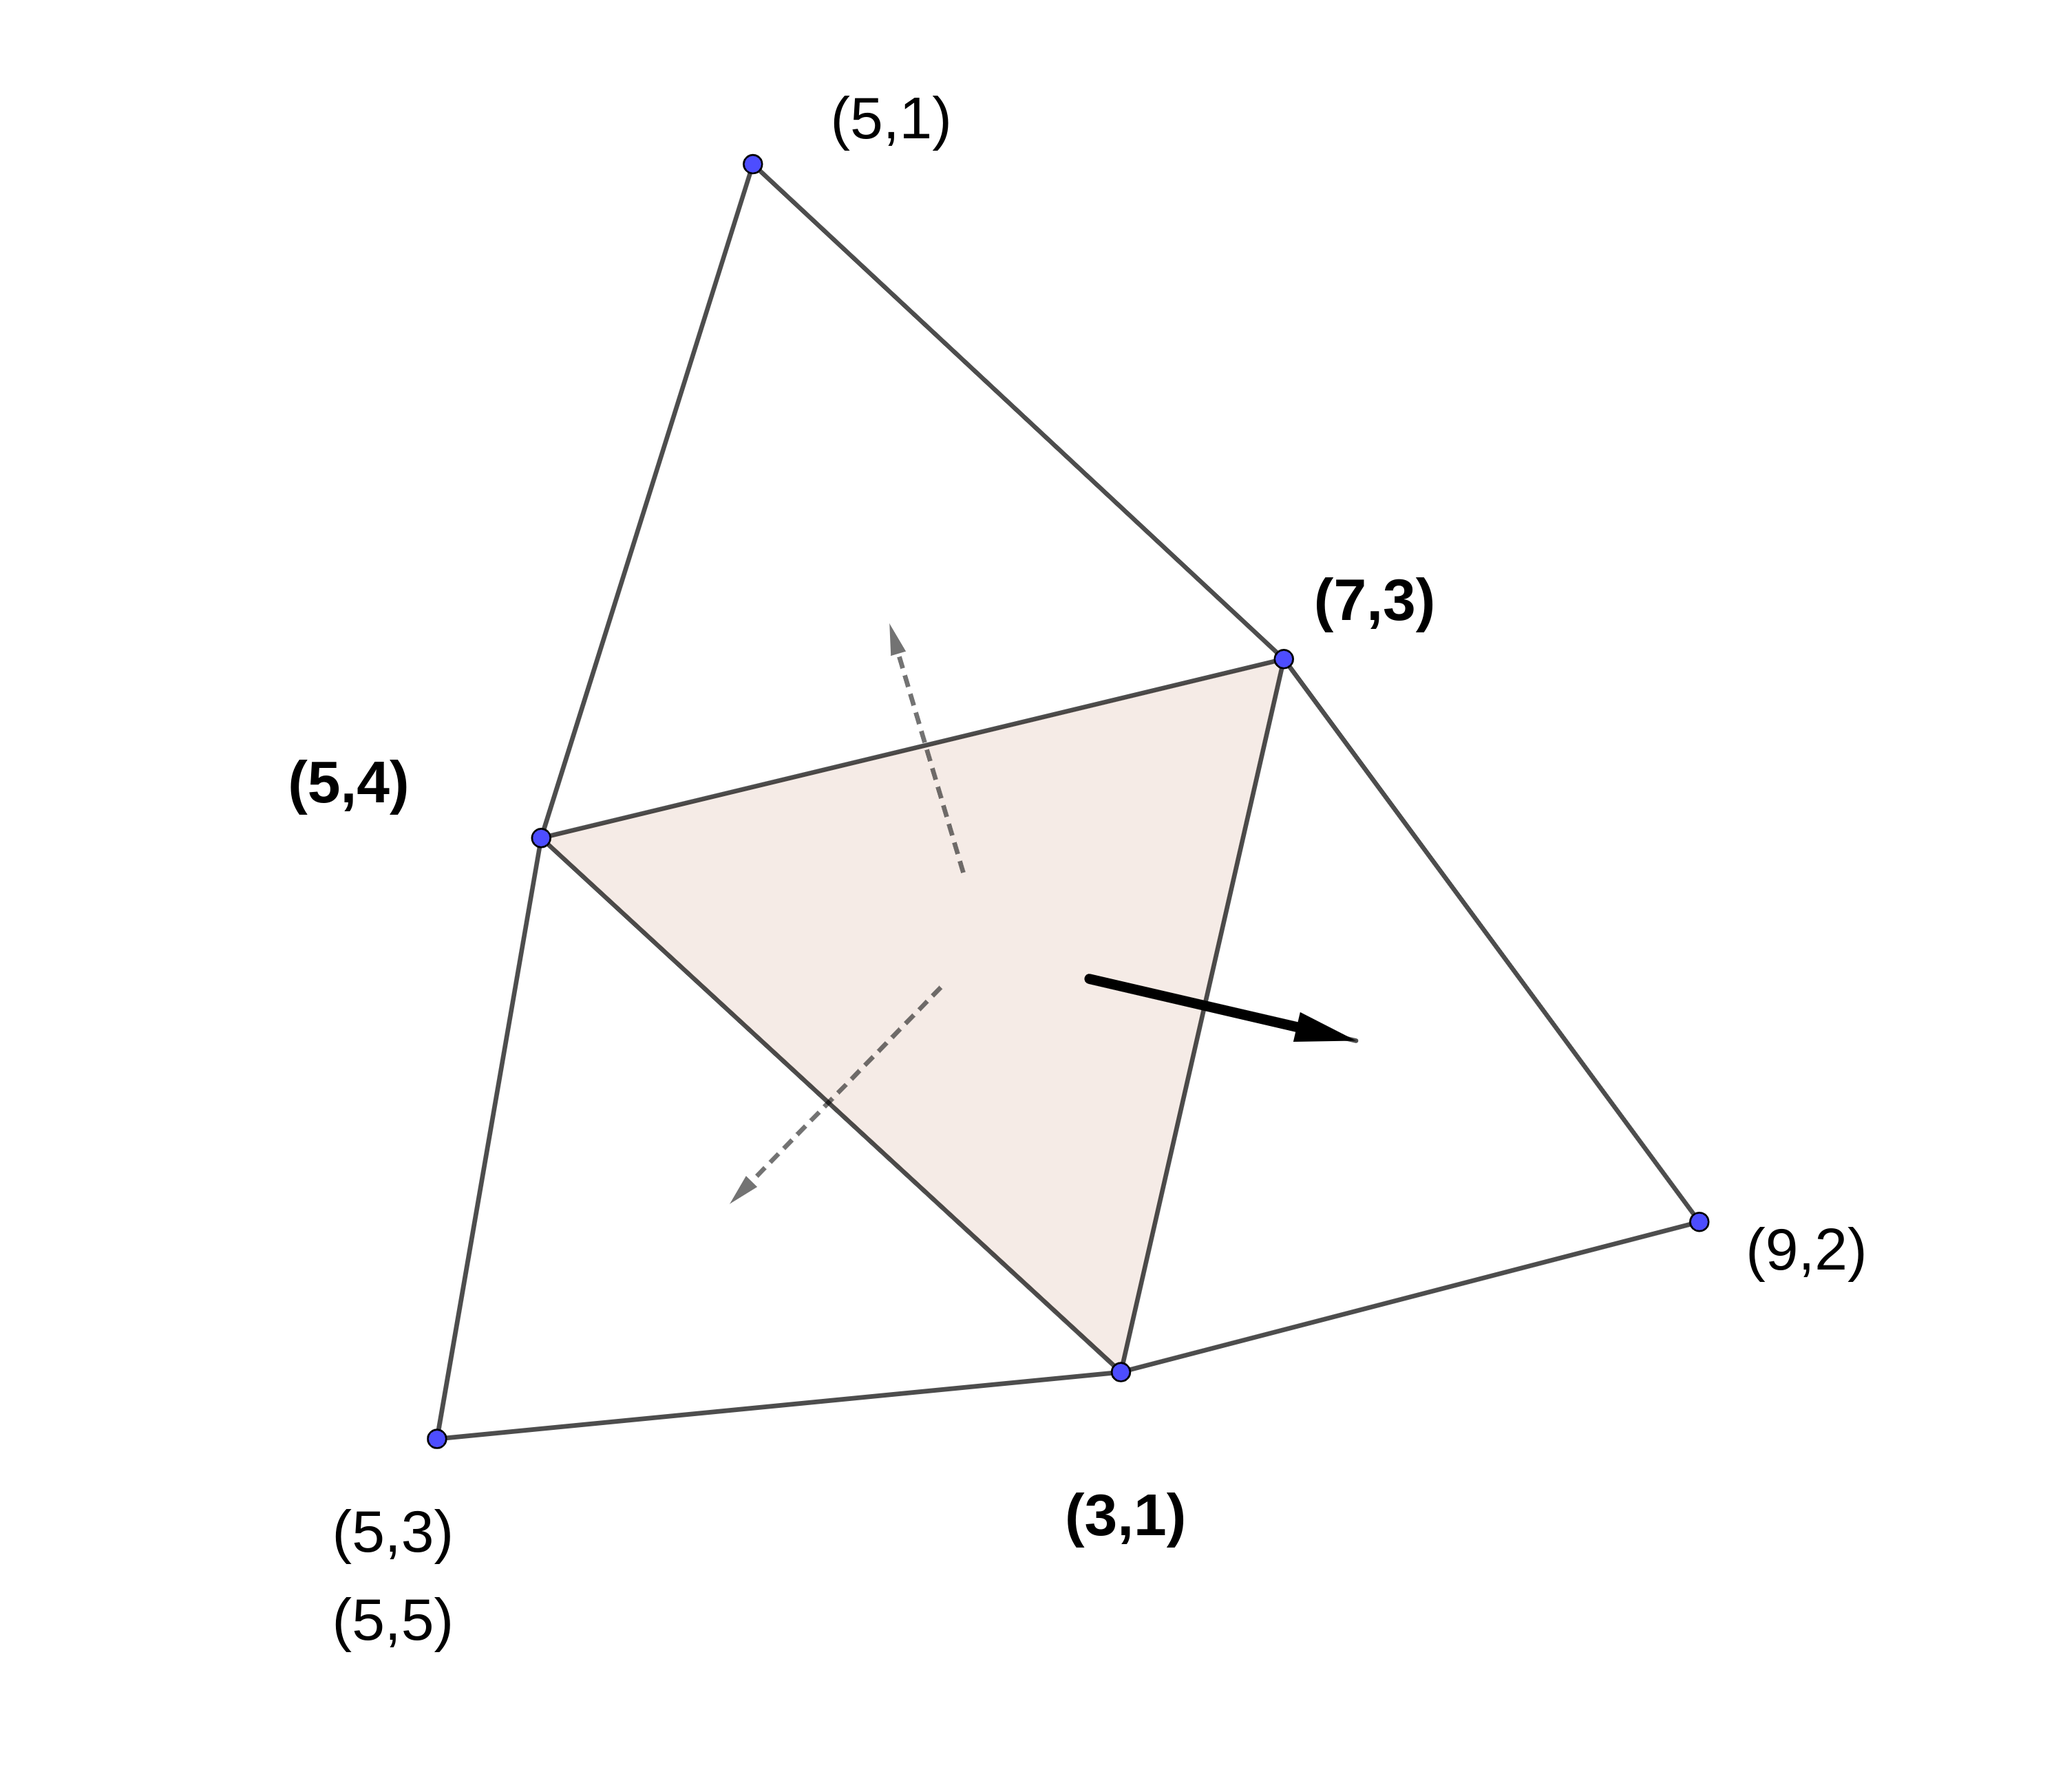
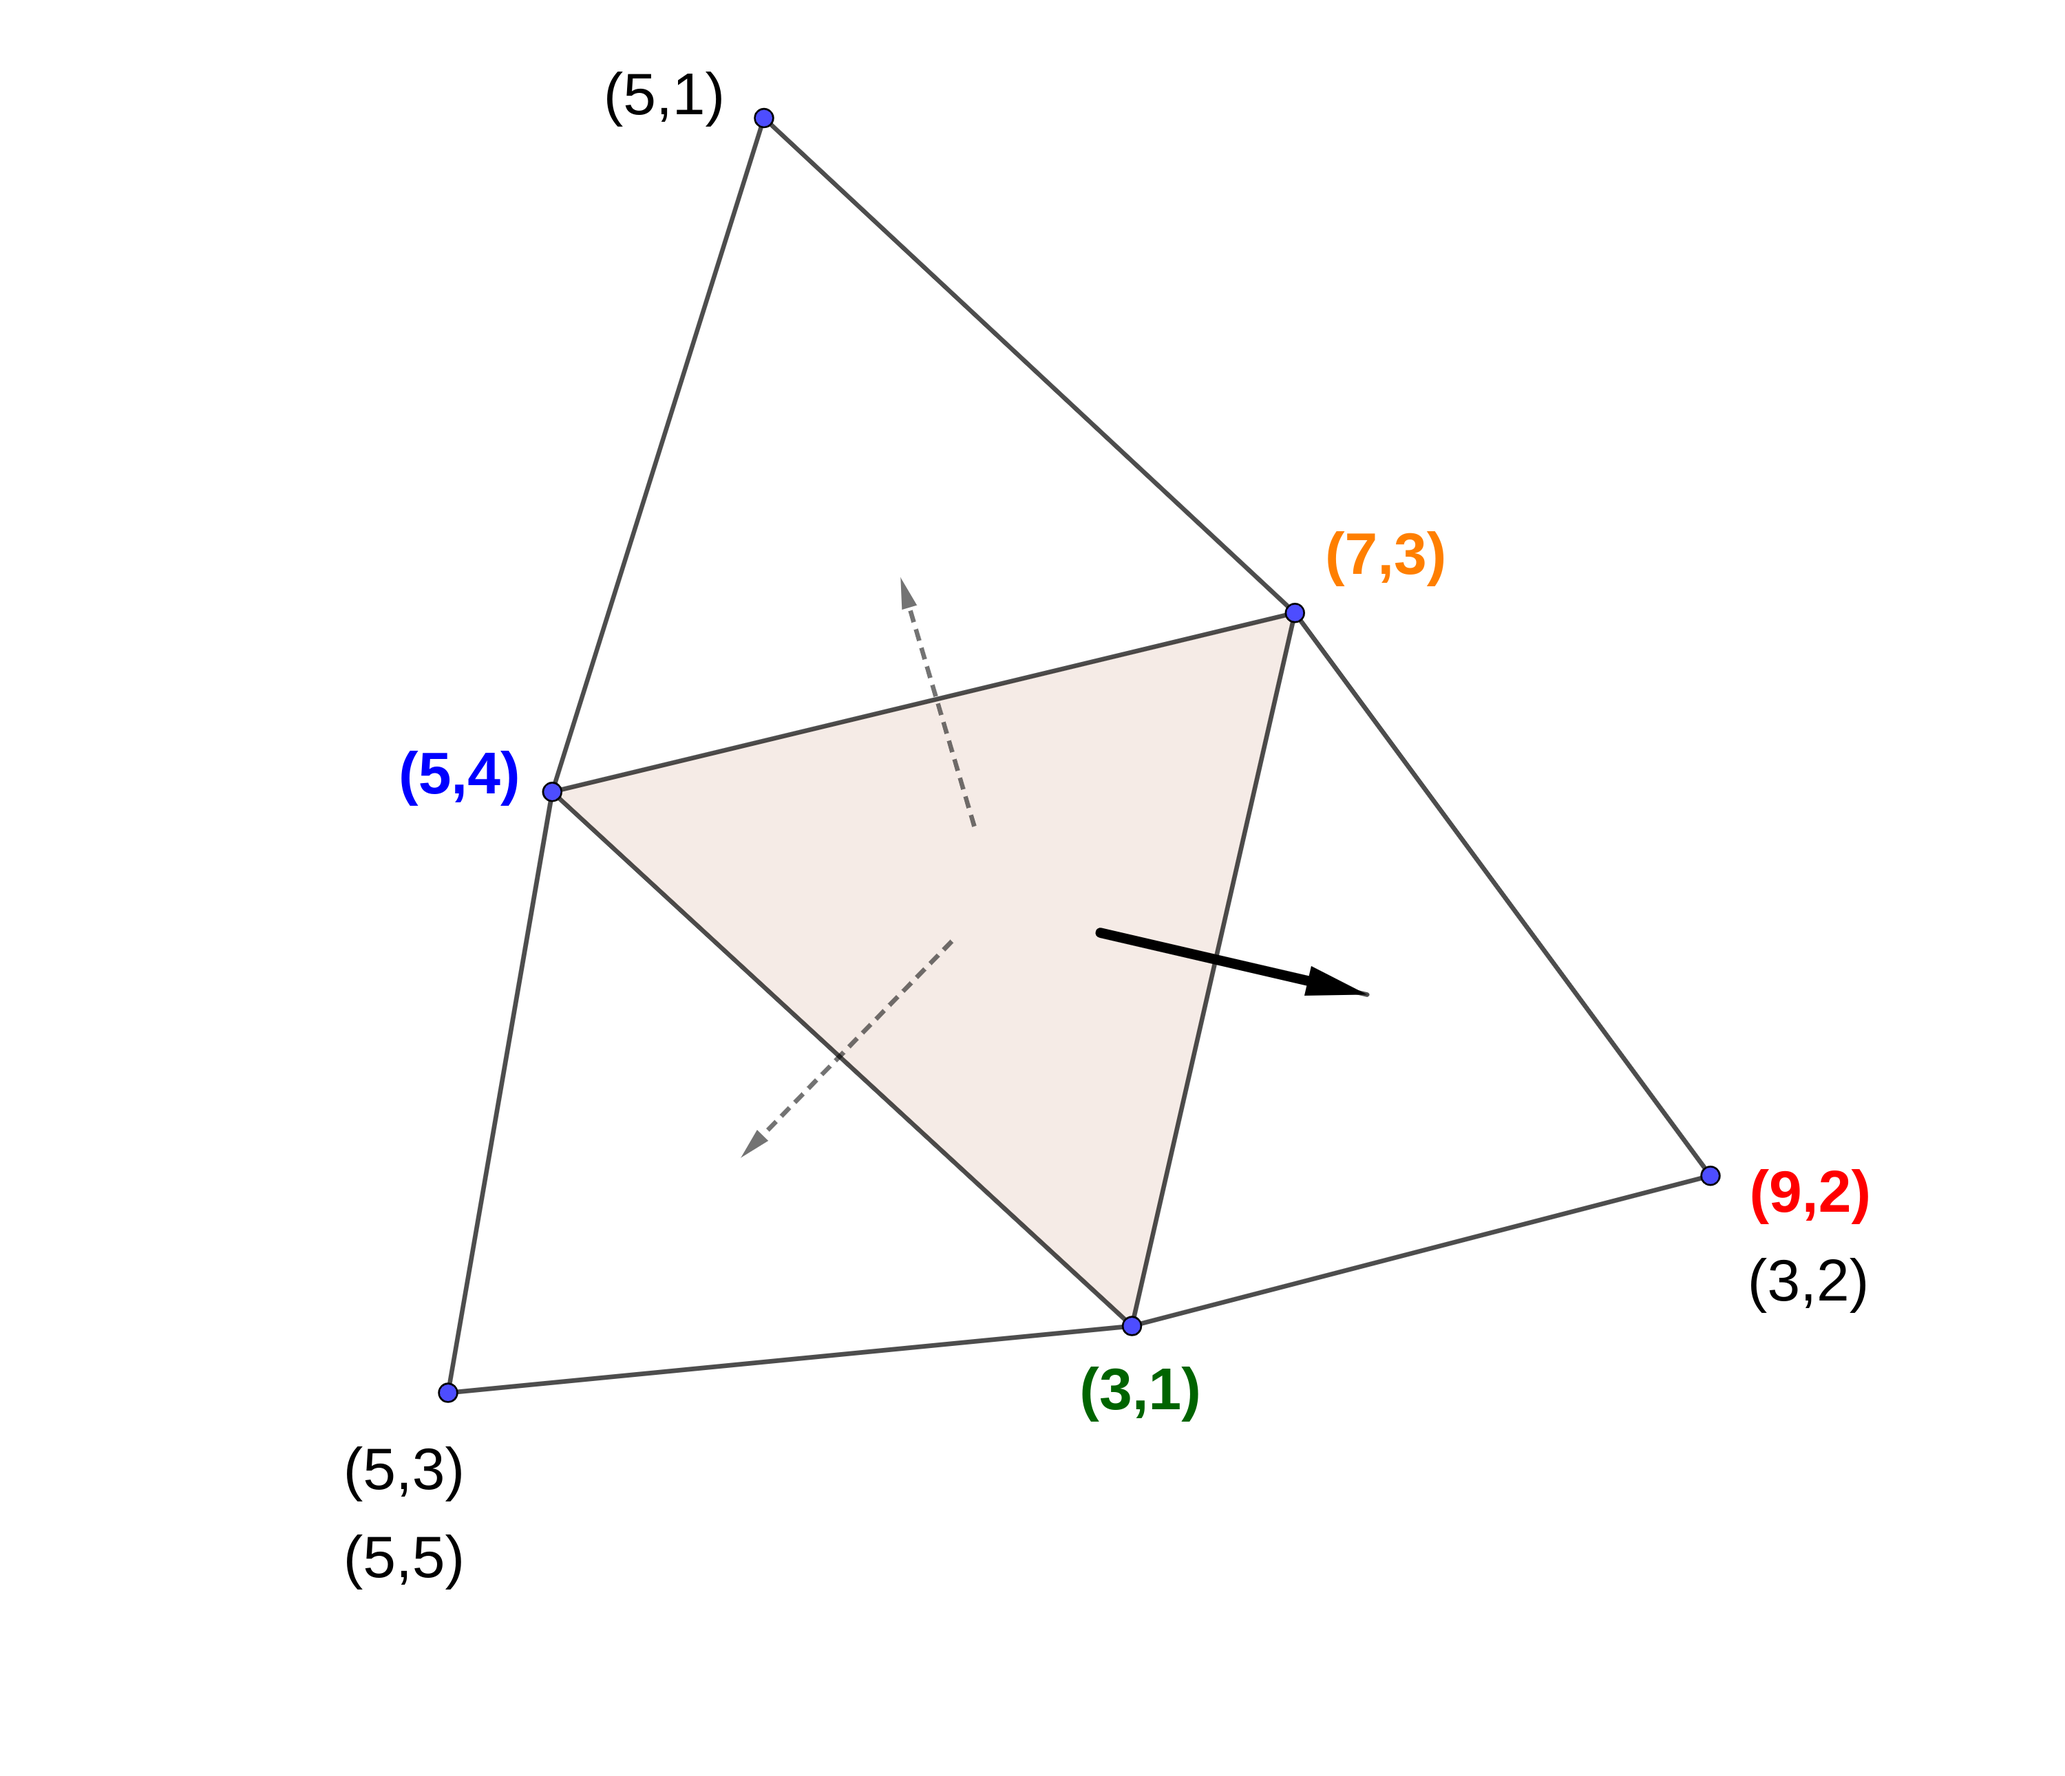
minor figure details for paper

diff --git a/benchmarks_sphere/paper_jrn_jfm_ppeixoto/modes_experiment.py b/benchmarks_sphere/paper_jrn_jfm_ppeixoto/modes_experiment.py
@@ -17,6 +17,7 @@ matplotlib.use('TkAgg')
 import matplotlib.pyplot as plt
 import matplotlib.colors as colors
 from matplotlib.lines import Line2D
+import matplotlib.ticker as mtick
 
 from mule.postprocessing.JobData import *
 
@@ -413,7 +414,7 @@ def load_file(filename):
     return obj
 
 class evol:
-    def __init__(self, basedir=".", eps=0.001):
+    def __init__(self, basedir=".", eps=0.0001):
 
         self.basedir = basedir
         self.energy_file    = basedir+"/output_spec_kin_en_t00000000000.00000000.txt"    
@@ -421,8 +422,8 @@ class evol:
         self.scalesmin = {}
         self.scalesmax = {}
         timerescale=1.0/24.00 #Days
-        self.energy_file_clean    = basedir+"/output_spec_kin_en_clean.pkl"    
-        self.enstrophy_file_clean = basedir+"/output_spec_enstrophy_clean.pkl"
+        self.energy_file_clean    = basedir+"/output_spec_kin_en_clean_eps"+str(eps)+".pkl"    
+        self.enstrophy_file_clean = basedir+"/output_spec_enstrophy_clean_eps"+str(eps)+".pkl"
 
         #Remove modes with null values
 
@@ -605,40 +606,60 @@ class evol:
     def plot(self, title="", output_filename="out.pdf"):
 
         
-        fig, ax = plt.subplots(1, figsize=(10,6))#, sharex=True)
+        fig, ax = plt.subplots(1, figsize=(6,4))#, sharex=True)
         plt.rc('text', usetex=False)
         
-        ax.set_title(title)
+        ax.set_title(title,fontsize=14)
 
         #for i, ax in enumerate(axs):
-        ax.set_xscale("linear")
-        ax.set_yscale("log", nonpositive='clip')
-        ylim=[self.scalesmin[0], self.scalesmax[0]]
-        ax.set_ylim(ylim)
 
         ncol = 1	
         self.df_energy_clean = self.df_energy_clean.reindex((sorted(self.df_energy_clean.columns, reverse=True)), axis=1)
+        
+        plot_percent = True
+        if plot_percent:
+            df_percent = self.df_energy_clean.div(self.df_energy_clean['SpectralSum'], axis=0) 
+            df_percent = df_percent.drop(columns=['SpectralSum'])
+            #print(df_percent)
+        else:
+            df_percent = self.df_energy_clean
+
+        eps = 0.001
+        filter = df_percent.max() > eps
+        #print(df_percent)
+        df_percent = df_percent.loc[:,filter]
+        #print(df_percent)
+
         color_dict = {}
         if "(5;4) (3;1) (7;3)" in title:
             color_dict = {'(5;4)': 'blue', '(3;1)': 'green', '(7;3)': 'orange', '(9;2)':'red', 'SpectralSum':'gray',
                           '(5;5)': 'blue', '(5;3)': 'green', '(5;1)': 'orange', '(3;2)': 'red'}             
-            style_dict = {'(5;4)': '-', '(3;1)': '-', '(7;3)': '-', '(9;2)':'-', 'SpectralSum':'-'}
-            linewidths_dict = {'(5;4)': '1', '(3;1)': '1', '(7;3)': '1', '(9;2)':'2', 'SpectralSum':'2'}
-            lws = [linewidths_dict.get(x, '0.5') for x in self.df_energy_clean.columns]
+            style_dict = {'(5;4)': '-', '(3;1)': '-', '(7;3)': '-', '(9;2)':'-'}
+            linewidths_dict = {'(5;4)': '1', '(3;1)': '1', '(7;3)': '1', '(9;2)':'2'}
+            lws = [linewidths_dict.get(x, '0.4') for x in df_percent.columns]
 
         #self.df_energy_clean.plot( ax=ax, color=[color_dict.get(x, '#333333') for x in self.df_energy_clean.columns])
-        self.df_energy_clean.plot( ax=ax, 
-            style=[style_dict.get(x, '--') for x in self.df_energy_clean.columns], 
-            color=[color_dict.get(x, 'gray') for x in self.df_energy_clean.columns])
+        df_percent.plot( ax=ax, 
+            style=[style_dict.get(x, '--') for x in df_percent.columns], 
+            color=[color_dict.get(x, 'gray') for x in df_percent.columns])
         
         for i, l in enumerate(ax.lines):
             plt.setp(l, linewidth=lws[i])
-
-        ax.set(ylabel='Energy', xlabel="Time (days)")
-        ax.legend(loc='upper left', bbox_to_anchor= (1.0, 1.0), ncol=ncol, fontsize="small")
         
+        ax.set_yscale("log", nonpositive='clip')
+        if plot_percent:
+            ax.set(ylabel='$\%$ Energy', xlabel="Time (days)")
+            ax.set_ylim([10e-5, 1])
+            ax.yaxis.set_major_formatter(mtick.PercentFormatter(1.0, 2, '%'))
+        else:
+            ax.set(ylabel='Energy', xlabel="Time (days)")
+        ax.legend(loc='upper left', bbox_to_anchor= (1.0, 1.0), ncol=ncol, fontsize=8)
+        ax.set_xscale("linear")
+        
+        #ylim=[self.scalesmin[0], self.scalesmax[0]]
+        #ax.set_ylim(ylim)        
 
-        fig.subplots_adjust(right=0.7)
+        #fig.subplots_adjust(right=0.7)
         
         print("    ", self.basedir+"/energy_"+output_filename)
         plt.tight_layout()
@@ -669,12 +690,12 @@ class evol:
         fig.subplots_adjust(right=0.7)
         
         print("    ", self.basedir+"/enstrophy_"+output_filename)
-        plt.tight_layout()
-        plt.savefig(self.basedir+"/enstrophy_"+output_filename, transparent=True) #, bbox_inches='tight') #, pad_inches=0.02)
+        #plt.tight_layout()
+        plt.savefig(self.basedir+"/enstrophy_"+output_filename, transparent=True, dpi=600) #, bbox_inches='tight') #, pad_inches=0.02)
 
         plt.close()
 
-    def plot_out(self, title="", output_filename="out.pdf"):
+    def plot_out(self, title="", output_filename="out.png"):
 
         fontsize=18
         figsize=(10, 10)
@@ -725,7 +746,7 @@ class evol:
 
         print("    ", self.basedir+"/"+output_filename)
         #plt.show()
-        plt.savefig(self.basedir+"/"+output_filename, transparent=True) #, bbox_inches='tight') #, pad_inches=0.02)
+        plt.savefig(self.basedir+"/"+output_filename, transparent=True, dpi=300) #, bbox_inches='tight') #, pad_inches=0.02)
 
         plt.close()
 
@@ -813,16 +834,16 @@ class evol:
 
         #print(periods)
         #print(spectrum)
-        print(power_spec_filtred, np.any(filter))
+        #print(power_spec_filtred, np.any(filter))
 
         #print(xf)
         #print(yf)
         if do_plot:
-            fig, ax = plt.subplots()
+            fig, ax = plt.subplots(figsize=(5,5))
             
-            fig.suptitle(title)
+            ax.set_title(title, fontsize=14)
             #ax.plot(xf, 1.0/n * yf)
-            ax.plot(xf[2:], yf[2:]**2)
+            ax.plot(xf[2:], yf[2:]**2, color='red')
             ax.set(ylabel='Power Spectrum', xlabel="Periodicity (days)")
             #ax.set(ylabel='Normalized Mode Amplitude', xlabel="Periodicity (days)", title=title)
             plt.xscale('log', base=10)
@@ -831,7 +852,7 @@ class evol:
             #ax.plot(yf)
             plt.tight_layout()
             print("    ", self.basedir+"/"+output_filename)
-            plt.savefig(self.basedir+"/"+output_filename, transparent=True) #, bbox_inches='tight') #, pad_inches=0.02)
+            plt.savefig(self.basedir+"/"+output_filename, transparent=True, dpi=600) #, bbox_inches='tight') #, pad_inches=0.02)
             plt.close()
 
         return power_spec_filtred

diff --git a/benchmarks_sphere/paper_jrn_jfm_ppeixoto/pp_mode_transfer_efficiency.py b/benchmarks_sphere/paper_jrn_jfm_ppeixoto/pp_mode_transfer_efficiency.py
@@ -221,7 +221,7 @@ else:
 	exit(1)
 
 
-title_out = "Out Modes:"
+title_out = "Out Mode:"
 for i in range(len(n_out_list)):
 	#print("(", str(arr[i*3+0]), ";", str(arr[i*3+1]), ")")
 	title_out = title_out + " ("+str(n_out_list[i])+";"+str(m_out_list[i])+")"
@@ -239,7 +239,7 @@ for i in range(len(alphas)):
 			dominant_period.append(0)
 			continue
 
-	#if alphas[i] != 20:
+	#if alphas[i] != 12:
 	#	continue
 
 #	i=60
@@ -282,14 +282,16 @@ for i in range(len(alphas)):
 	
 	title = title_in + " alpha = " + str(alphas[i])
 	if plots:	
-		evol.plot(title, "mode_evol.pdf")
+		#evol.plot(title, "mode_evol.pdf")
+		evol.plot(title, "mode_evol.png")
 
-	title = title + "\n" + title_out
+	title = title + " , "+title_out
 	if plots:	
-		evol.plot_out(title, filename_out+".pdf")
+		evol.plot_out(title, filename_out+".png")
 
 	#fourier modes
-	spec_enegy = evol.fourier_modes(title, filename_out+"_spec.pdf", do_plot=plots, lim_inf=lim_inf, lim_sup=lim_sup)
+	title = " alpha = " + str(alphas[i])+" , "+title_out
+	spec_enegy = evol.fourier_modes(title, filename_out+"_spec.png", do_plot=plots, lim_inf=lim_inf, lim_sup=lim_sup)
 	dominant_period.append(spec_enegy)
 
 	
@@ -313,11 +315,16 @@ df['Exch_energy']=df['Exch_energy']*100
 df['Exch_ens']=df['Exch_ens']*100
 print(df)
 
-fig, ax = plt.subplots(figsize=(10,6)) #, tight_layout=True)
-ax.plot(df.index, df['Exch_energy'],  linewidth=1, color = 'blue', linestyle = '-', label='Energy') #, '--', ':'])
-#ax.plot(df.index, df['Exch_ens'],  linewidth=1, color = 'green', linestyle = '--', label='Enstrophy') #, '--', ':'])
-ax.set_xlabel(r" $\alpha$")
-ax.set_ylabel(r" $\epsilon(\alpha)$", color='blue')
+fig, ax = plt.subplots(figsize=(5,5)) #, tight_layout=True)
+plot_energy = False
+if plot_energy:
+	ax.plot(df.index, df['Exch_energy'],  linewidth=1, color = 'blue', linestyle = '-', label='Energy') #, '--', ':'])
+	ax.set_ylabel(r" $\epsilon(\alpha)$", color='blue', fontsize=16)
+else:
+	ax.plot(df.index, df['Exch_ens'],  linewidth=1, color = 'green', linestyle = '-', label='Enstrophy') #, '--', ':'])
+	ax.set_ylabel(r" $\epsilon(\alpha)$", color='green', fontsize=16)
+ax.set_xlabel(r" $\alpha$", fontsize=16)
+
 ax.yaxis.set_major_formatter(mtick.PercentFormatter())
 
 if lim_sup<200:
@@ -326,14 +333,17 @@ if lim_sup<200:
 	ax2.plot(df.index, df['SpecEnerg'],  linewidth=1, color = 'red', linestyle = ':', label='Spectral Amp\n'+spec_string) #, '--', ':'])
 	ax2.set_ylabel("Spectrum Amplitude", color='red')
 
-title = title_in+"\n"+title_out
-plt.title(title)
+title = title_in+" "+title_out
+plt.title(title, fontsize=14)
 
-ax.legend(loc=2)
-ax2.legend(loc=1)
+ax.legend(loc=2, fontsize=12)
+ax2.legend(loc=4, fontsize=11)
 
-
-filename_final = basedir+"/"+exp_tag+"_"+filename_out+".pdf"
+if plot_energy:
+	filename_final = basedir+"/"+exp_tag+"_"+filename_out+"_energy.png"
+else:
+	filename_final = basedir+"/"+exp_tag+"_"+filename_out+"_ens.png"
 print("Output file:", filename_final)
-plt.savefig(filename_final, transparent=True) #, bbox_inches='tight') #, pad_inches=0.02)
+plt.tight_layout()
+plt.savefig(filename_final, transparent=True,  dpi=600) #, bbox_inches='tight') #, pad_inches=0.02)
 plt.close()
